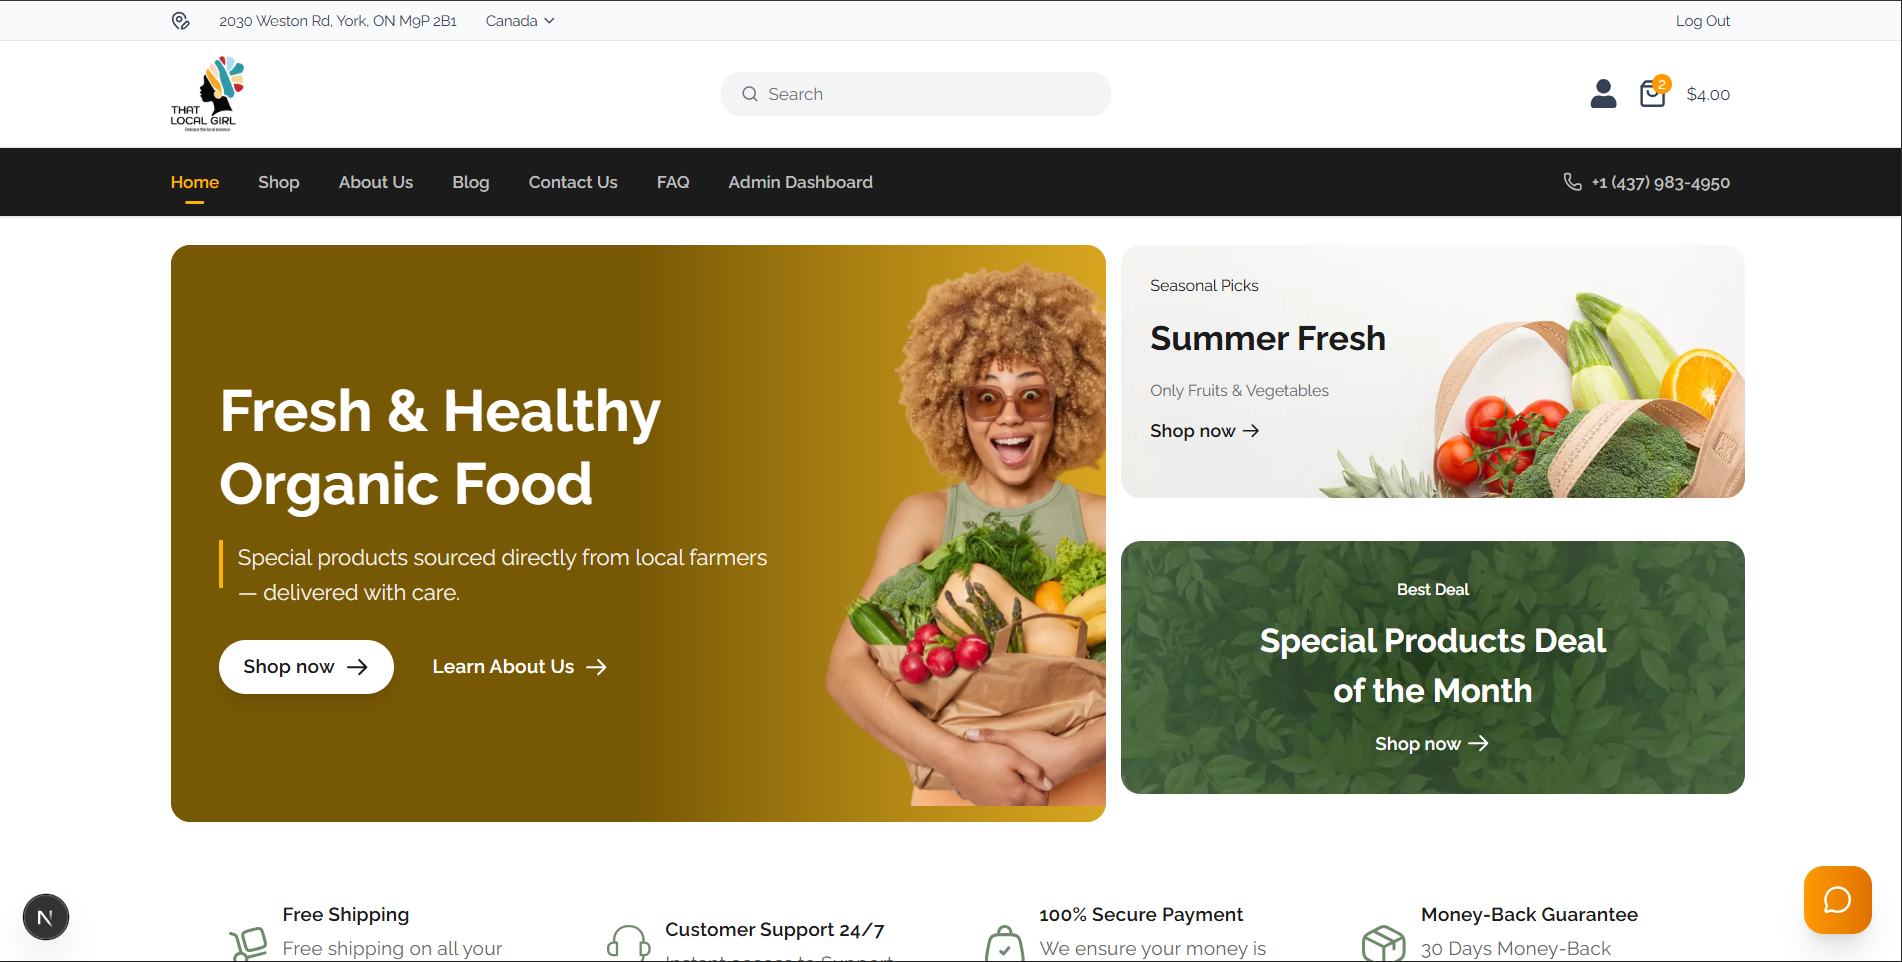
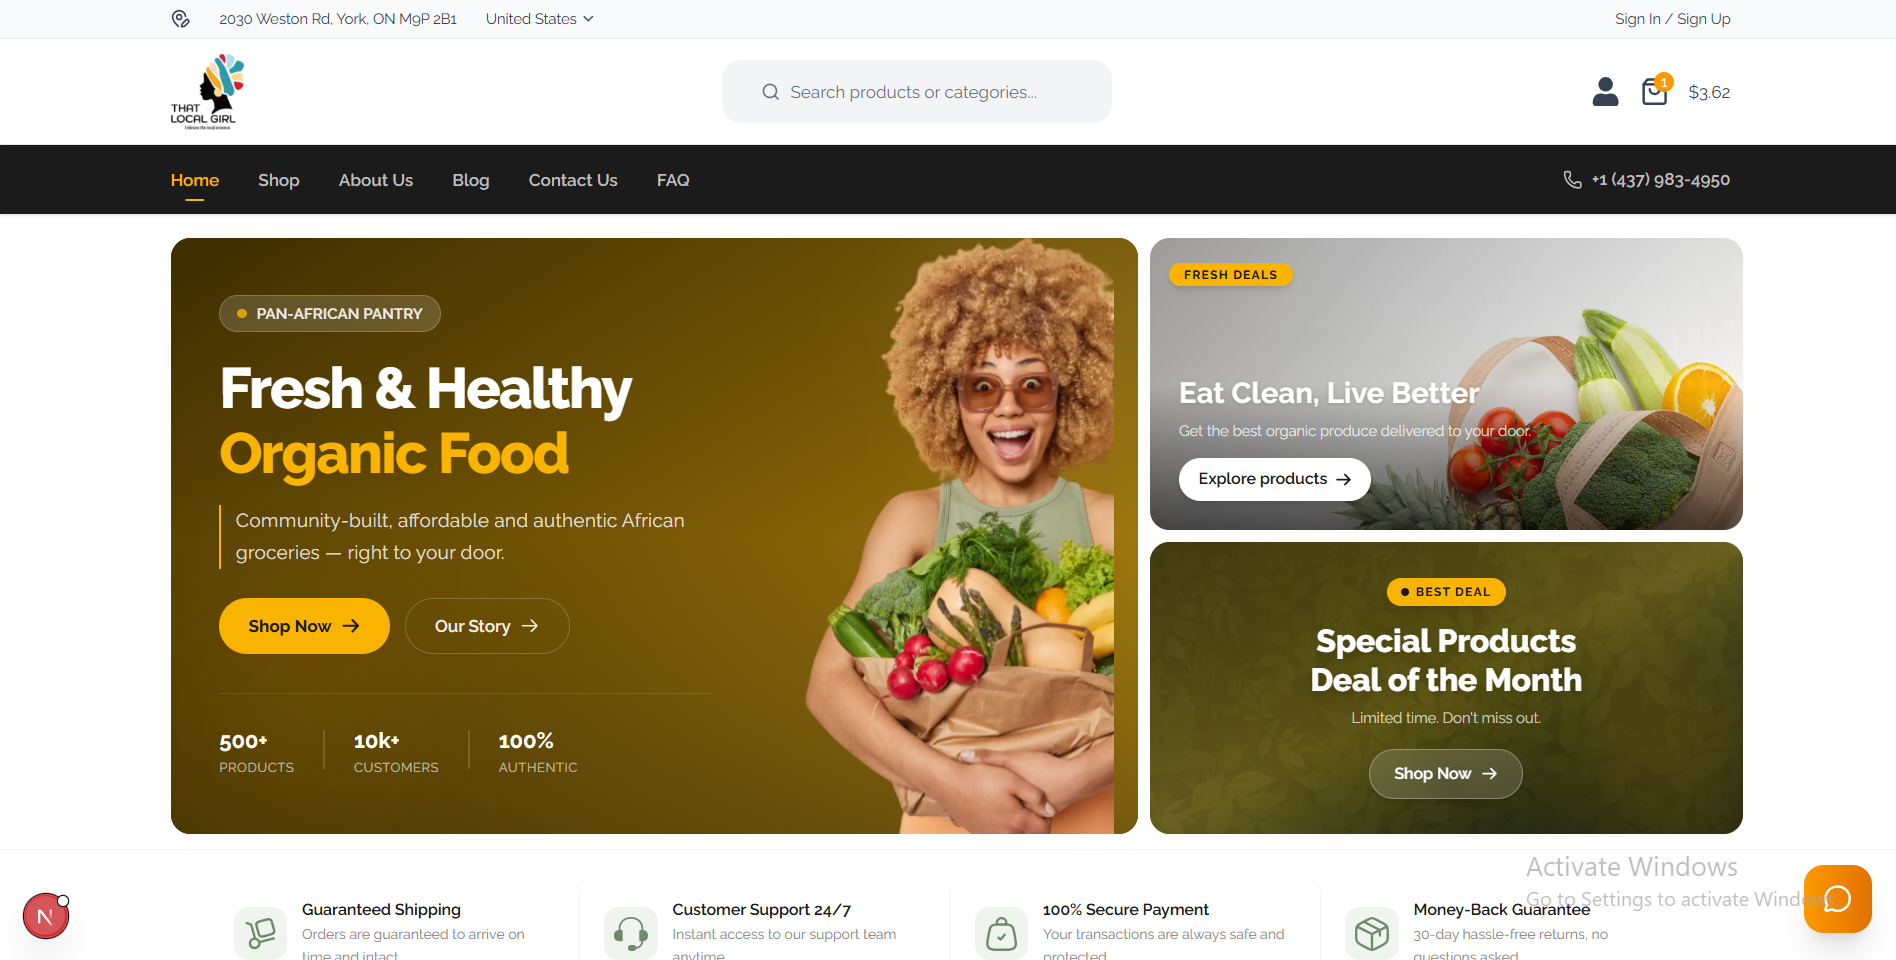
.

diff --git a/app/contact/contact.jsx b/app/contact/contact.jsx
@@ -16,7 +16,6 @@ const services = [
 ];
 
 const budgets = [
-  "Under ₦100,000",
   "₦100,000 – ₦300,000",
   "₦300,000 – ₦750,000",
   "₦750,000 – ₦2,000,000",
@@ -37,20 +36,20 @@ const contactInfo = [
   {
     icon: <BiEnvelope />,
     label: "Email us",
-    value: "hello@devolasolutions.com",
-    href: "mailto:hello@devolasolutions.com",
+    value: "devolacontact@gmail.com",
+    href: "mailto:devolacontact@gmail.com",
   },
   {
     icon: <BiLogoWhatsapp />,
     label: "WhatsApp",
-    value: "+234 800 000 0000",
-    href: "https://wa.me/2348000000000",
+    value: "+234 816 941 5526",
+    href: "https://wa.me/2348169415526",
   },
   {
     icon: <BiPhone />,
     label: "Call us",
-    value: "+234 800 000 0000",
-    href: "tel:+2348000000000",
+    value: "+234 816 941 5526",
+    href: "https://wa.me/2348169415526",
   },
   {
     icon: <BiMap />,
@@ -463,9 +462,21 @@ export default function Contact() {
                 </p>
                 <div className="flex gap-3">
                   {[
-                    { icon: <BsInstagram />, href: "#", label: "Instagram" },
-                    { icon: <BsTwitterX />, href: "#", label: "Twitter" },
-                    { icon: <BsLinkedin />, href: "#", label: "LinkedIn" },
+                    {
+                      icon: <BsInstagram />,
+                      href: "https://instagram.com/dev_olayinka",
+                      label: "Instagram",
+                    },
+                    {
+                      icon: <BsTwitterX />,
+                      href: "https://x.com/dev_olayinka",
+                      label: "Twitter",
+                    },
+                    {
+                      icon: <BsLinkedin />,
+                      href: "https://linkedin.com/dev_olayinka",
+                      label: "LinkedIn",
+                    },
                   ].map((s) => (
                     <a
                       key={s.label}

diff --git a/app/_components/Footer.jsx b/app/_components/Footer.jsx
@@ -95,10 +95,10 @@ const Footer = () => (
               Have a project in mind?
             </p>
             <a
-              href="mailto:contact@devolasolutions.com"
+              href="mailto:devolacontact@gmail.com"
               className="text-xl font-bold border-b-2 border-[#FF5C00] hover:text-[#FF5C00] transition-colors pb-1"
             >
-              contact@devolasolutions.com
+              devolacontact@gmail.com
             </a>
           </div>
         </div>
